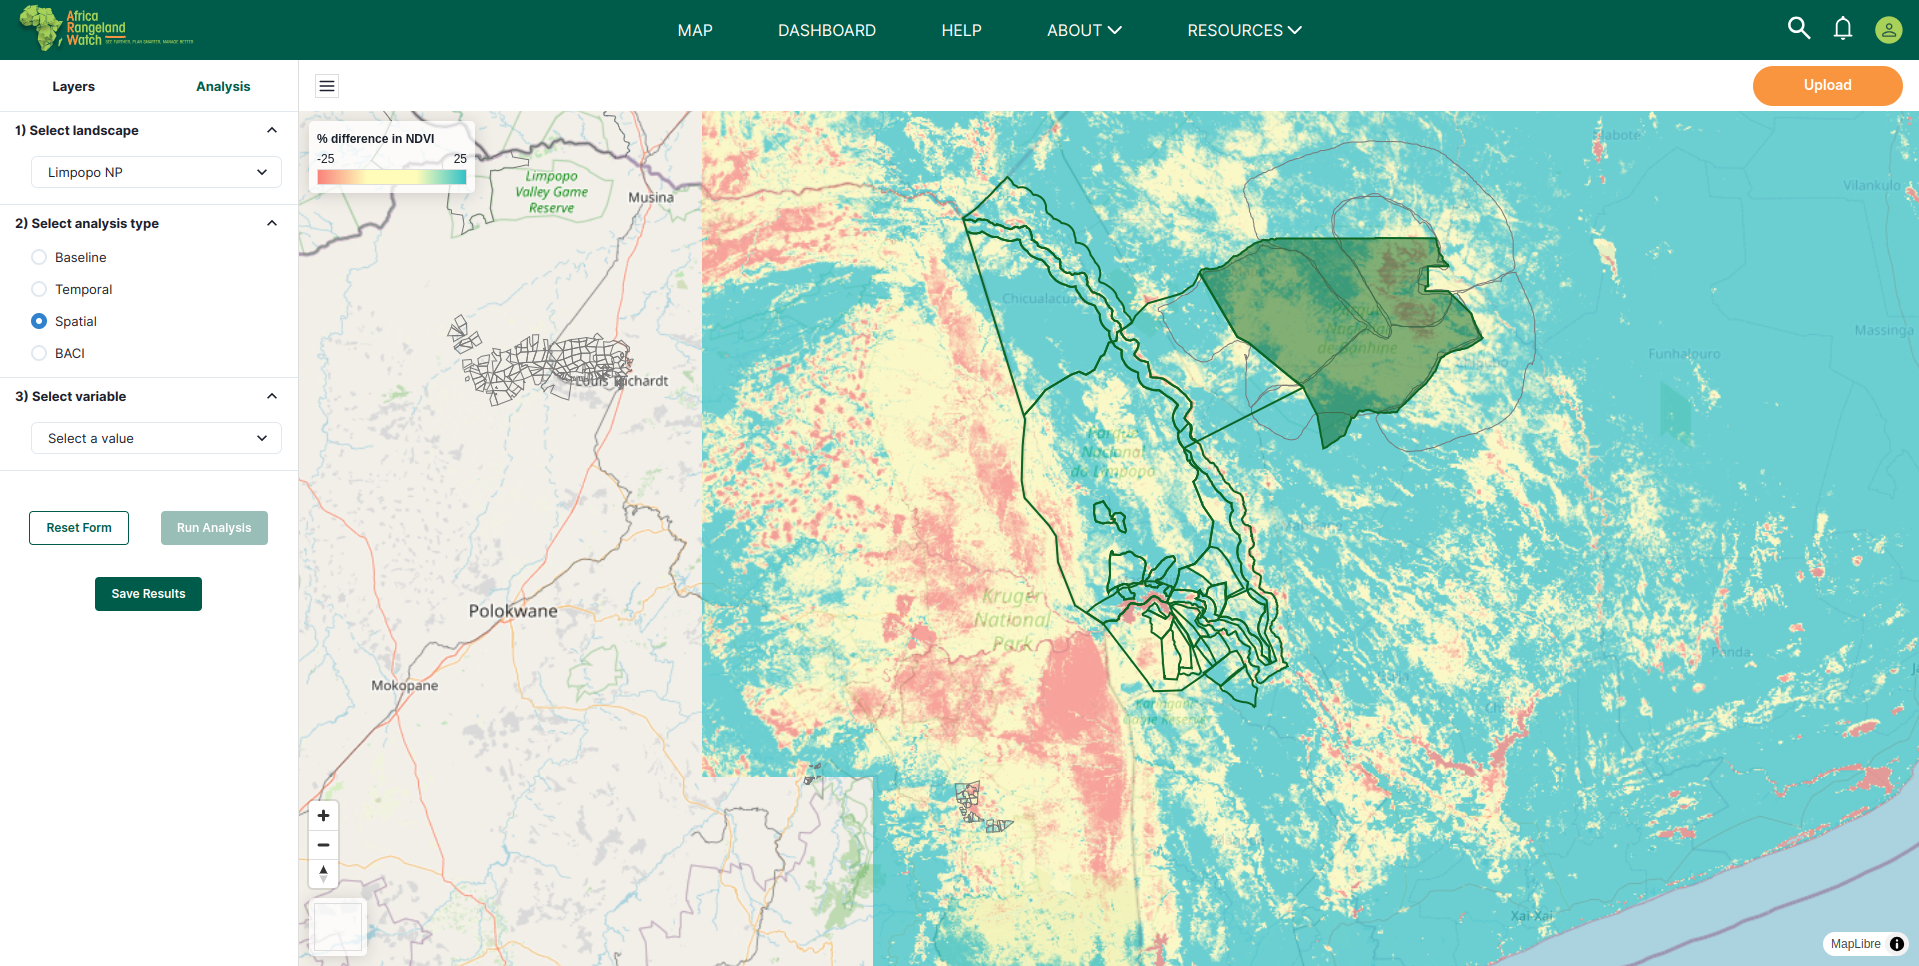
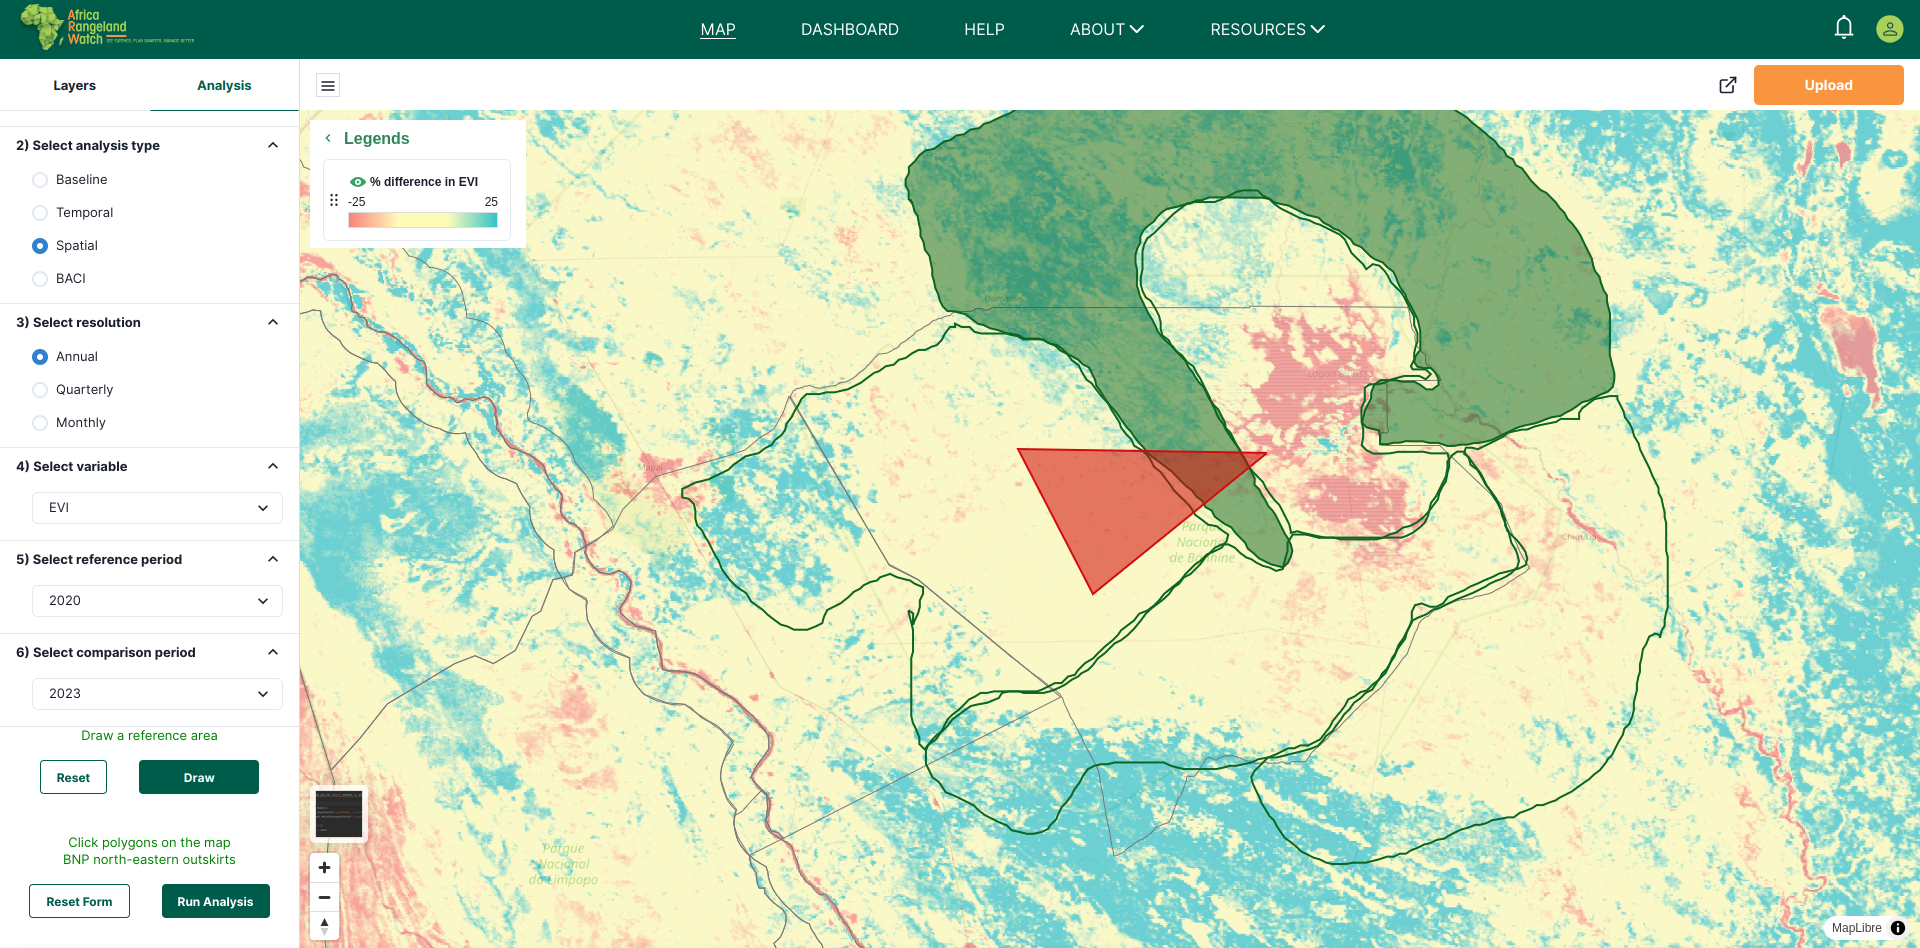
Update Dashboard docs

diff --git a/docs/src/user/guide/map.md b/docs/src/user/guide/map.md
@@ -111,9 +111,8 @@ Available options in `Select analysis type` are:
 
 #### How to do Spatial Analysis?
 
-* **Spatial:** After selecting this option, you can choose a specific variable. Next, you need to select a polygon from the map. Once the selections are made, you can proceed with the analysis.
-
-    [![Spatial Analysis Type](./img/guide-map-img-8.png)](./img/guide-map-img-8.png)
+* **Spatial:** After selecting this option, you can choose a specific variable. Next, you need to select reference period, draw a polygon on the map, and select a community polygon from the map. Once the selections are made, you can proceed with the analysis.
+[![Spatial Analysis Type](./img/guide-map-img-8.png)](./img/guide-map-img-8.png)
 
 #### How to do BACI Analysis?
 
@@ -131,6 +130,11 @@ After saving the analysis results, you will be notified by a 1⃣ `toast noti
 
 [![Notification](./img/guide-map-img-24.png)](./img/guide-map-img-24.png)
 
+
+#### How to Save Analysis?
+Saving analysis is the way to make analysis result available as widget to the dashboard. Click on the `Save Results` button, and your analysis will be available when adding dashboard widgets.
+
+[![Save Analysis Result](./img/guide-map-img-26.png)](./img/guide-map-img-26.png)
 
 ### How to Upload Shapefile
 
